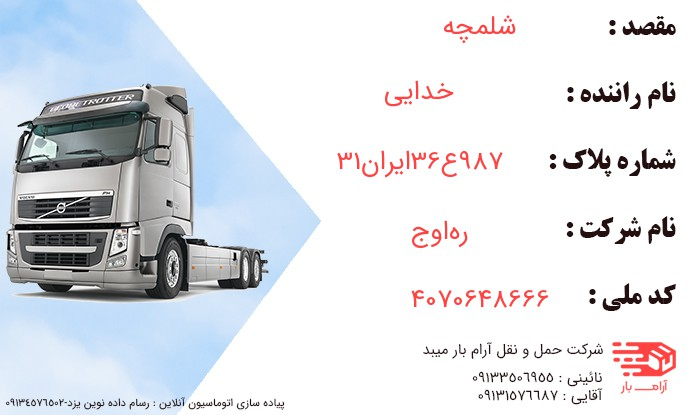
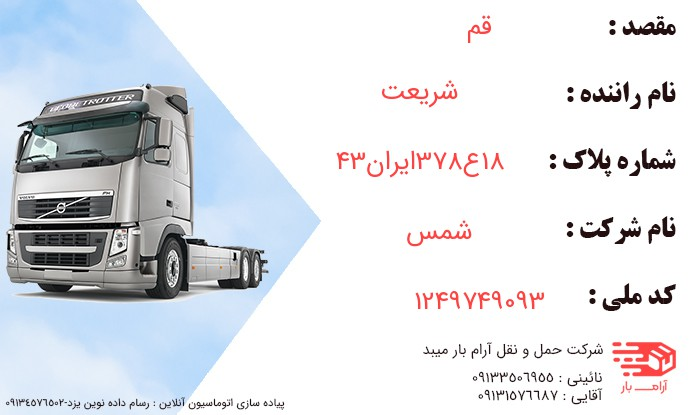
chah

diff --git a/main.php b/main.php
@@ -73,7 +73,7 @@ $image->text($characters[2].renderText(" ایران").$characters[1].renderText(
 
 
 // 4th text 
-$image->text($data['dsmart'], 440, 220, function($font) {
+$image->text(renderText($data['dsmart']), 440, 220, function($font) {
     $font->file('IRANSansWeb(FaNum).ttf');
     $font->size(26);
     $font->color('#ff4242');
@@ -97,7 +97,7 @@ $image->save('new.jpg');
 
 //------------------------------------------------------------------------
 $telegram = new Api('6479029477:AAFFAmZrEpsgJHic785dogmHIsQ4VgknqIE');
-$caption="✅ مقصد :".$data['dest']."\n"." 🚛نام راننده : ".$data['dname']."\n"." ✅ شماره پلاک :".$data['dpluck']."\n"
+$caption="✈ مقصد :".$data['dest']."\n"." 🚛نام راننده : ".$data['dname']."\n"." ✅ شماره پلاک :".$data['dpluck']."\n"
 ." 🏦 شرکت :".$data['dsmart']."\n"." 👁🗨 کد ملی  : ".$data['dnational'] ;
 $params = [
           'chat_id'=> '-1001714934522',
